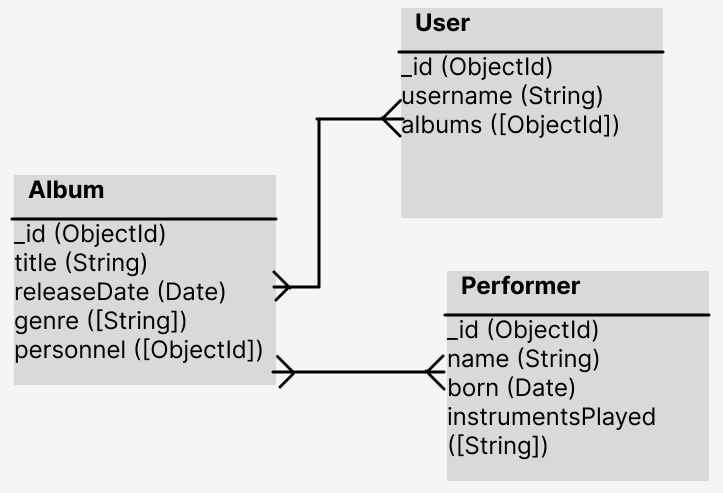
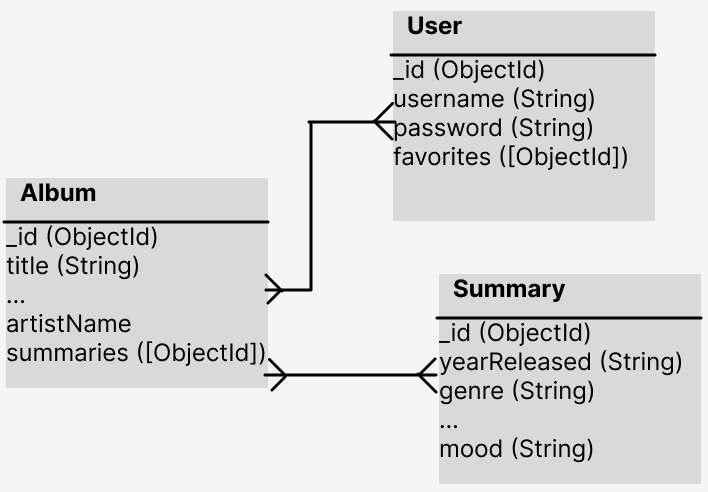
ERD and READme are updated

Changed region(s): [[0.0, 0.3354, 0.9944, 1.0], [0.3729, 0.0, 0.9322, 0.6402]]

diff --git a/README.md b/README.md
@@ -3,16 +3,20 @@
 ## Premise: 
 Albumsaurus is full stack web app that allows users to discover and learn about different albums in a Netlifx-style UI. By clicking on an album's artwork or title on screen, the SHOW page will display to the user that album's release date, genre, personnel, (and ideally some billboard chart info, i.e. top spot)
 
-## The User Story:
 
+## The User Story:
+As a user, I would like to
+• Create an account and login
+• Click on random albums that pop up to learn more about them
+• Save albums I like into a section for My Favorites
+• Edit info for albums in My Favorites
+• Delete albums from My Favorites
 
 ## The Wireframe:
 ![ERD](public/imgs/P2-Wireframe.png)
 
-
 ## The ERD: 
 ![ERD](public/imgs/P2-ERD.png)
-
 
 ## Route Table:
 | **URL**          | **HTTP Verb**|**Action**|
@@ -28,7 +32,7 @@ Albumsaurus is full stack web app that allows users to discover and learn about 
 
 ## Technologies Used:
 - Deezer API
-- Last FM API
+- AudioDB API
 - MongoDB
 - Express
 - Node
@@ -36,26 +40,28 @@ Albumsaurus is full stack web app that allows users to discover and learn about 
 - CSS
 - HTML5
 
-
 ## How To Use:
-
+Once you've made an account, simply log in, find an album cover that looks interesting, and start acquiring knowledge!
 
 ## MVP Requirements:
-- [] Have at least 2 models (more if they make sense) that represents the main functional idea for your app.
+- [x] Have at least 2 models (more if they make sense) that represents the main functional idea for your app.
 - [x] Incorporate at least one API. List of examples here: (Public API List)[https://github.com/public-apis/public-apis].
 - [x] Have complete RESTful routes for at least one of your resources with GET, POST, PUT, and DELETE
 - [x] Utilize an ODM to create a database table structure and interact with your MongoDb-stored data
 - [] Include a readme file that explains how to use your app and contains a route table for your RESTful routes
 - [] Have semantically clean HTML, CSS, and back-end code
-- [] Be deployed online and accessible to the public
+- [x] Be deployed online and accessible to the public
 
 
 ## Stretch goals / ICE BOX:
 - [x] User creation and authorization
+- [] Delete summaries and albums once they've been altered or removed from My Favorites
+- [] Fix async/await bug that doesn't copy the entire description from the AudioDB API
+- [] Add styling rules so that all medium and big artwork pictures are the same size throughout the different routes
 - [] Give users the ability to search through their favorite albums for quicker future reference
 - [] Replace Last FM API with an API that has wiki summaries and additional interesting data on a higher percentage of albums (examples below)
     - [] https://developer.musixmatch.com/documentation/api-reference/album-get
     - [] https://developer.napster.com/api/v2.2#albums
-    - [] https://www.theaudiodb.com/api_guide.php
+    - [x] https://www.theaudiodb.com/api_guide.php
 - [] Display how many users have an album saved
 - [] Have discover section of index page change every 5 sections (w/ animations) instead of requiring the user to refresh the page every time
